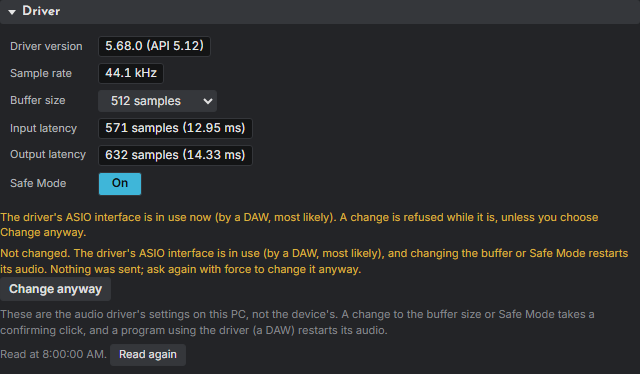
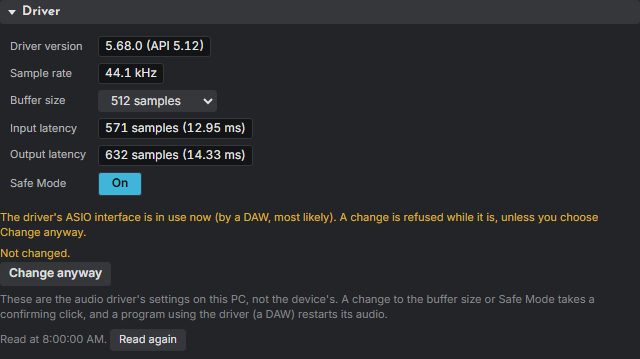
Driver section: an in-use refusal reads just "Not changed."
The line above it already says the ASIO interface is in use, and Change
anyway sits beside it, so the server's API wording ("ask again with
force") stays out of the page. Other refusals keep their reason.

diff --git a/web/apps/web/test/driver.test.ts b/web/apps/web/test/driver.test.ts
@@ -137,6 +137,8 @@ test("a write's result reads plainly, and a mismatch or failure is not dressed u
   assert.equal(writeText({ state: "done", report: report("unchanged", "The driver already has these settings, so nothing was sent.") }).problem, false);
   assert.deepEqual(writeText({ state: "sending", change: { buffer_size: 256 } }), { text: "Sending to the driver...", problem: false });
   assert.deepEqual(writeText({ state: "refused", code: "not_offered", message: "No.", change: { buffer_size: 3 } }), { text: "Not changed. No.", problem: true });
+  // In use: the line above already says why, and Change anyway is beside it; the server's API wording stays out.
+  assert.deepEqual(writeText({ state: "refused", code: "asio_in_use", message: "ask again with force", change: { buffer_size: 256 } }), { text: "Not changed.", problem: true });
 });
 
 test("the store sends a change, shows the driver's read-back, and keeps a refusal with the change it refused", async () => {

diff --git a/web/apps/web/src/store/driver.ts b/web/apps/web/src/store/driver.ts
@@ -51,7 +51,10 @@ const OUTCOME_LEAD: Record<DriverWriteReport["outcome"], [lead: string, problem:
  */
 export function writeText(write: DriverWriteState): { text: string; problem: boolean } {
   if (write.state === "sending") return { text: "Sending to the driver...", problem: false };
-  if (write.state === "refused") return { text: `Not changed. ${write.message}`, problem: true };
+  if (write.state === "refused") {
+    // In use: the line above says why and Change anyway is beside it, so the server's wording stays out.
+    return { text: write.code === "asio_in_use" ? "Not changed." : `Not changed. ${write.message}`, problem: true };
+  }
   const [lead, problem] = OUTCOME_LEAD[write.report.outcome];
   const back = write.report.read_back;
   const latencies =

diff --git a/web/apps/web/e2e/driver.spec.ts b/web/apps/web/e2e/driver.spec.ts
@@ -205,7 +205,7 @@ test("a program using ASIO is named, a change is refused, and Change anyway send
   await value(page, "buffer-menu").selectOption("256");
   await value(page, "buffer-confirm").click();
   await expect.poll(() => driver.puts).toEqual([{ buffer_size: 256 }]);
-  await expect(value(page, "result")).toContainText("Not changed. The driver's ASIO interface is in use");
+  await expect(value(page, "result")).toHaveText("Not changed.");
   await expect(value(page, "result")).toHaveClass(/warning/);
   await expect(value(page, "buffer-menu"), "the menu shows what the driver still has").toHaveValue("512");
   await expect(value(page, "input_latency")).toHaveText("571 samples (12.95 ms)");
